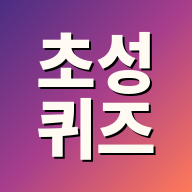
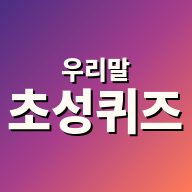
Add files via upload

Changed region(s): [[0.0312, 0.1562, 0.9688, 0.8438]]

diff --git a/public/index.html b/public/index.html
@@ -3,7 +3,7 @@
 <head>
 <meta charset="UTF-8">
 <meta name="viewport" content="width=device-width, initial-scale=1.0">
-<title>초성 퀴즈 — 당신의 우리말 실력은?</title>
+<title>우리말 초성 퀴즈</title>
 <link rel="manifest" href="/manifest.json">
 <meta name="theme-color" content="#A83E8C">
 <link rel="icon" href="/icon-192.png">
@@ -249,7 +249,7 @@
 <body>
 <div class="page">
   <div class="runhead">
-    <h1>🧩 초성 퀴즈 — 당신의 우리말 실력은?</h1>
+    <h1>🧩 우리말 초성 퀴즈</h1>
     <span class="meta">표준국어대사전 낱말 카드</span>
   </div>
 
